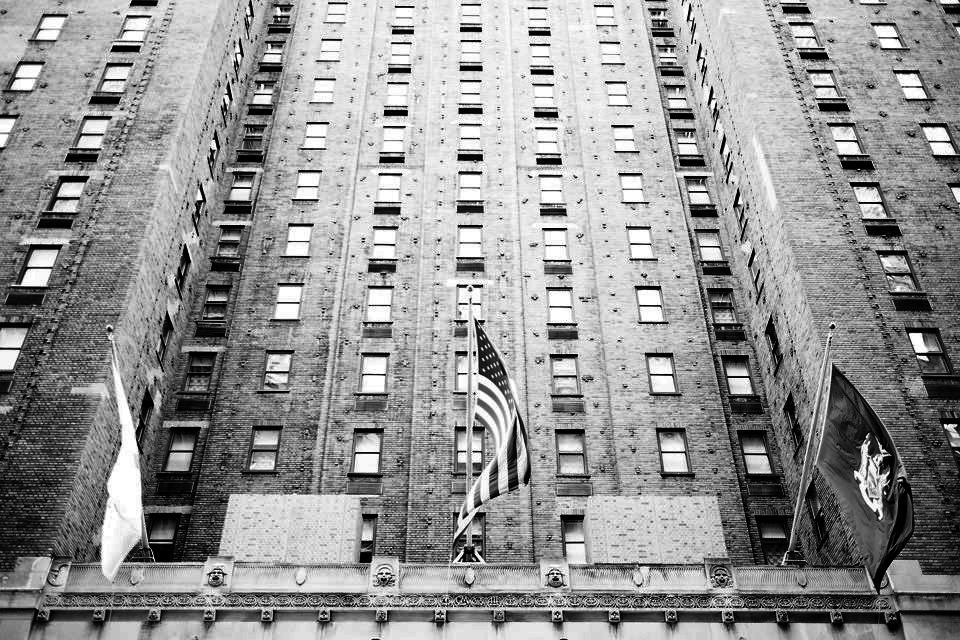
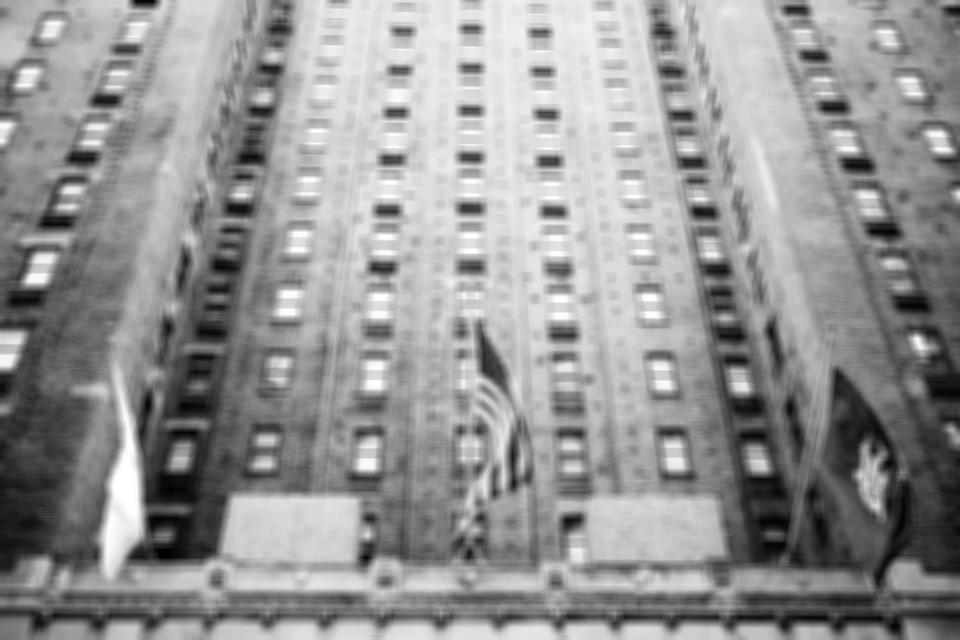
update

diff --git a/image-filtering/__init__.py b/image-filtering/__init__.py
@@ -11,16 +11,24 @@ import matplotlib as mpl
 
 def gaussian_filter(path):
     img = cv2.imread(path)
-    gaussian_filter_img = cv2.GaussianBlur(img, (5, 5), 0)
+    gaussian_filter_img = cv2.GaussianBlur(img, (3, 3), 0)
     img = PIL.Image.fromarray(gaussian_filter_img)
     img.save('gaussian_filter.jpg')
 
 
 def box_filter(path):
     img = cv2.imread(path)
-    box_filter_img = cv2.boxFilter(img, -1, (1, 1))
+    box_filter_img = cv2.boxFilter(img, -1, (10, 10))
     img = PIL.Image.fromarray(box_filter_img)
     img.save('box_filter.jpg')
+
+
+def first_order_derivative(path):
+    img = cv2.imread(path)
+
+
+def second_order_derivative(path):
+    img = cv2.imread(path)
 
 
 file_path = '../image-gamma-transformation/gamma_transposed_overexpose.jpg'
